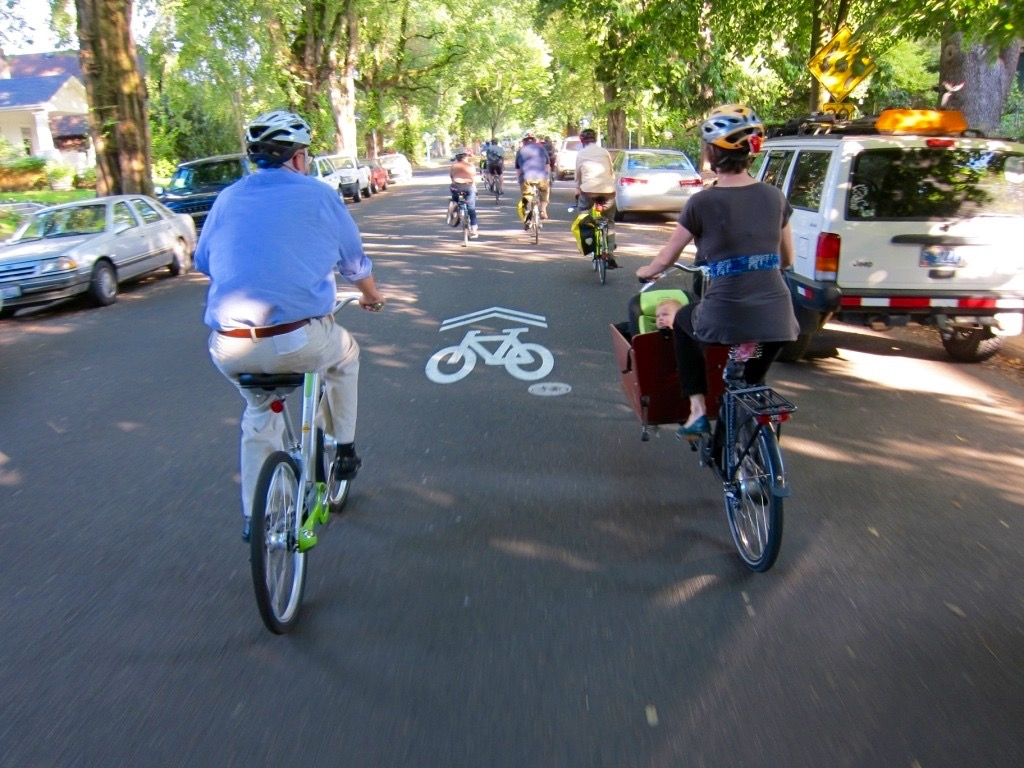
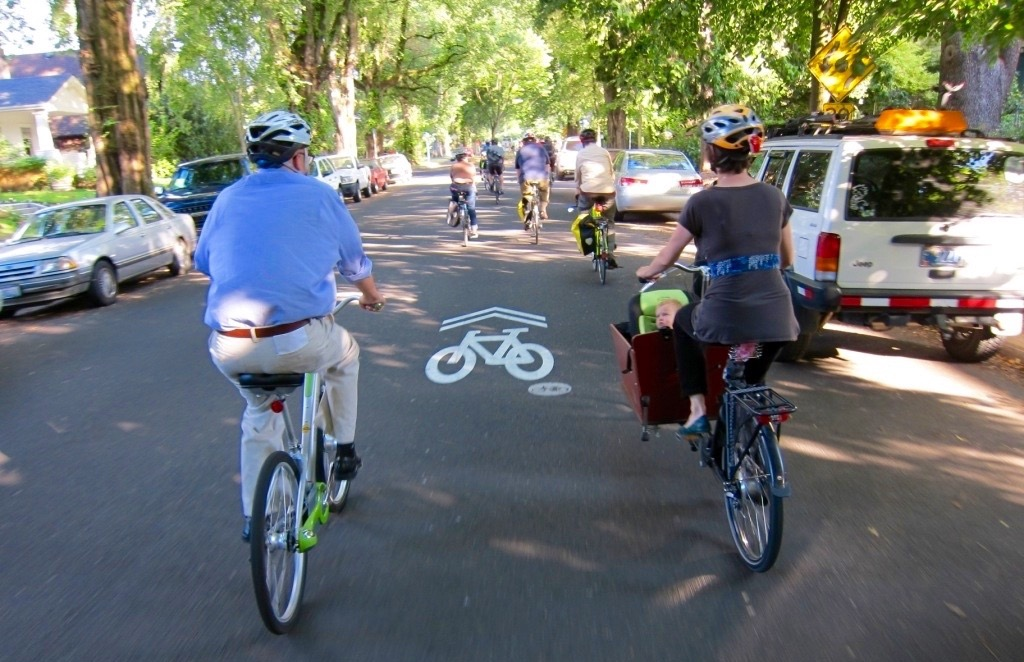
Site updated at 2022-03-08 00:44:28 UTC

diff --git a/index.html b/index.html
@@ -78,7 +78,7 @@
     </nav>
   </header>
 
-  <div class="home page-cover" style="background-image:url(/images/neighborhood-greenway.jpg);"></div>
+  <div class="home page-cover" style="background-image:url(/images/neighborhood-greenway.jpg);background-position:50% 20%"></div>
 
 <article class='home'>
   <div class="container">
